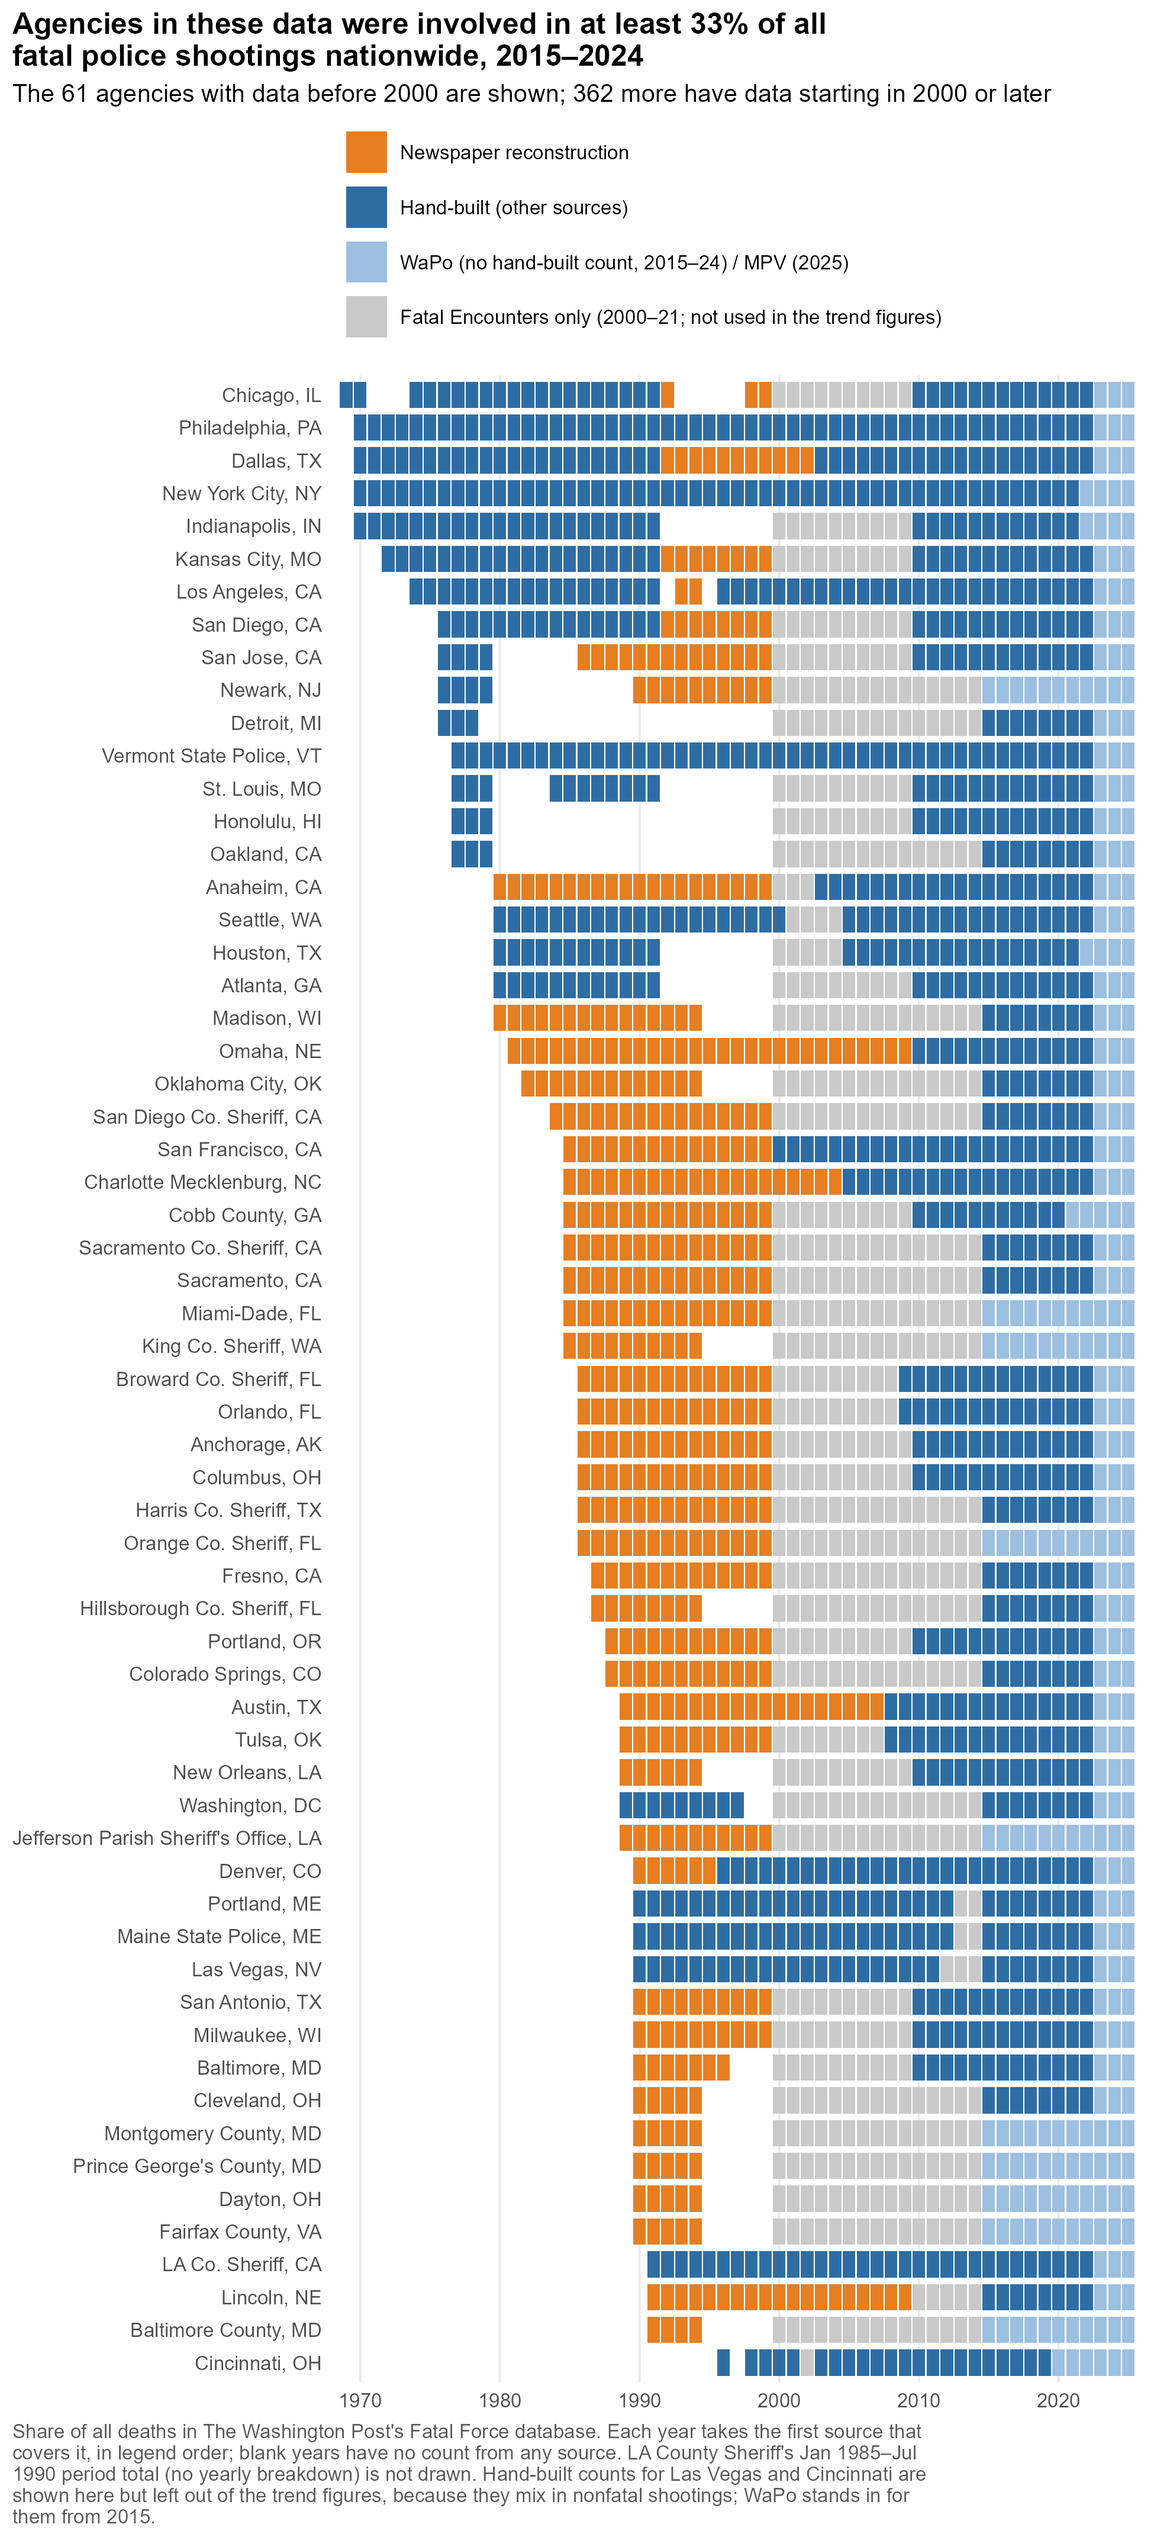
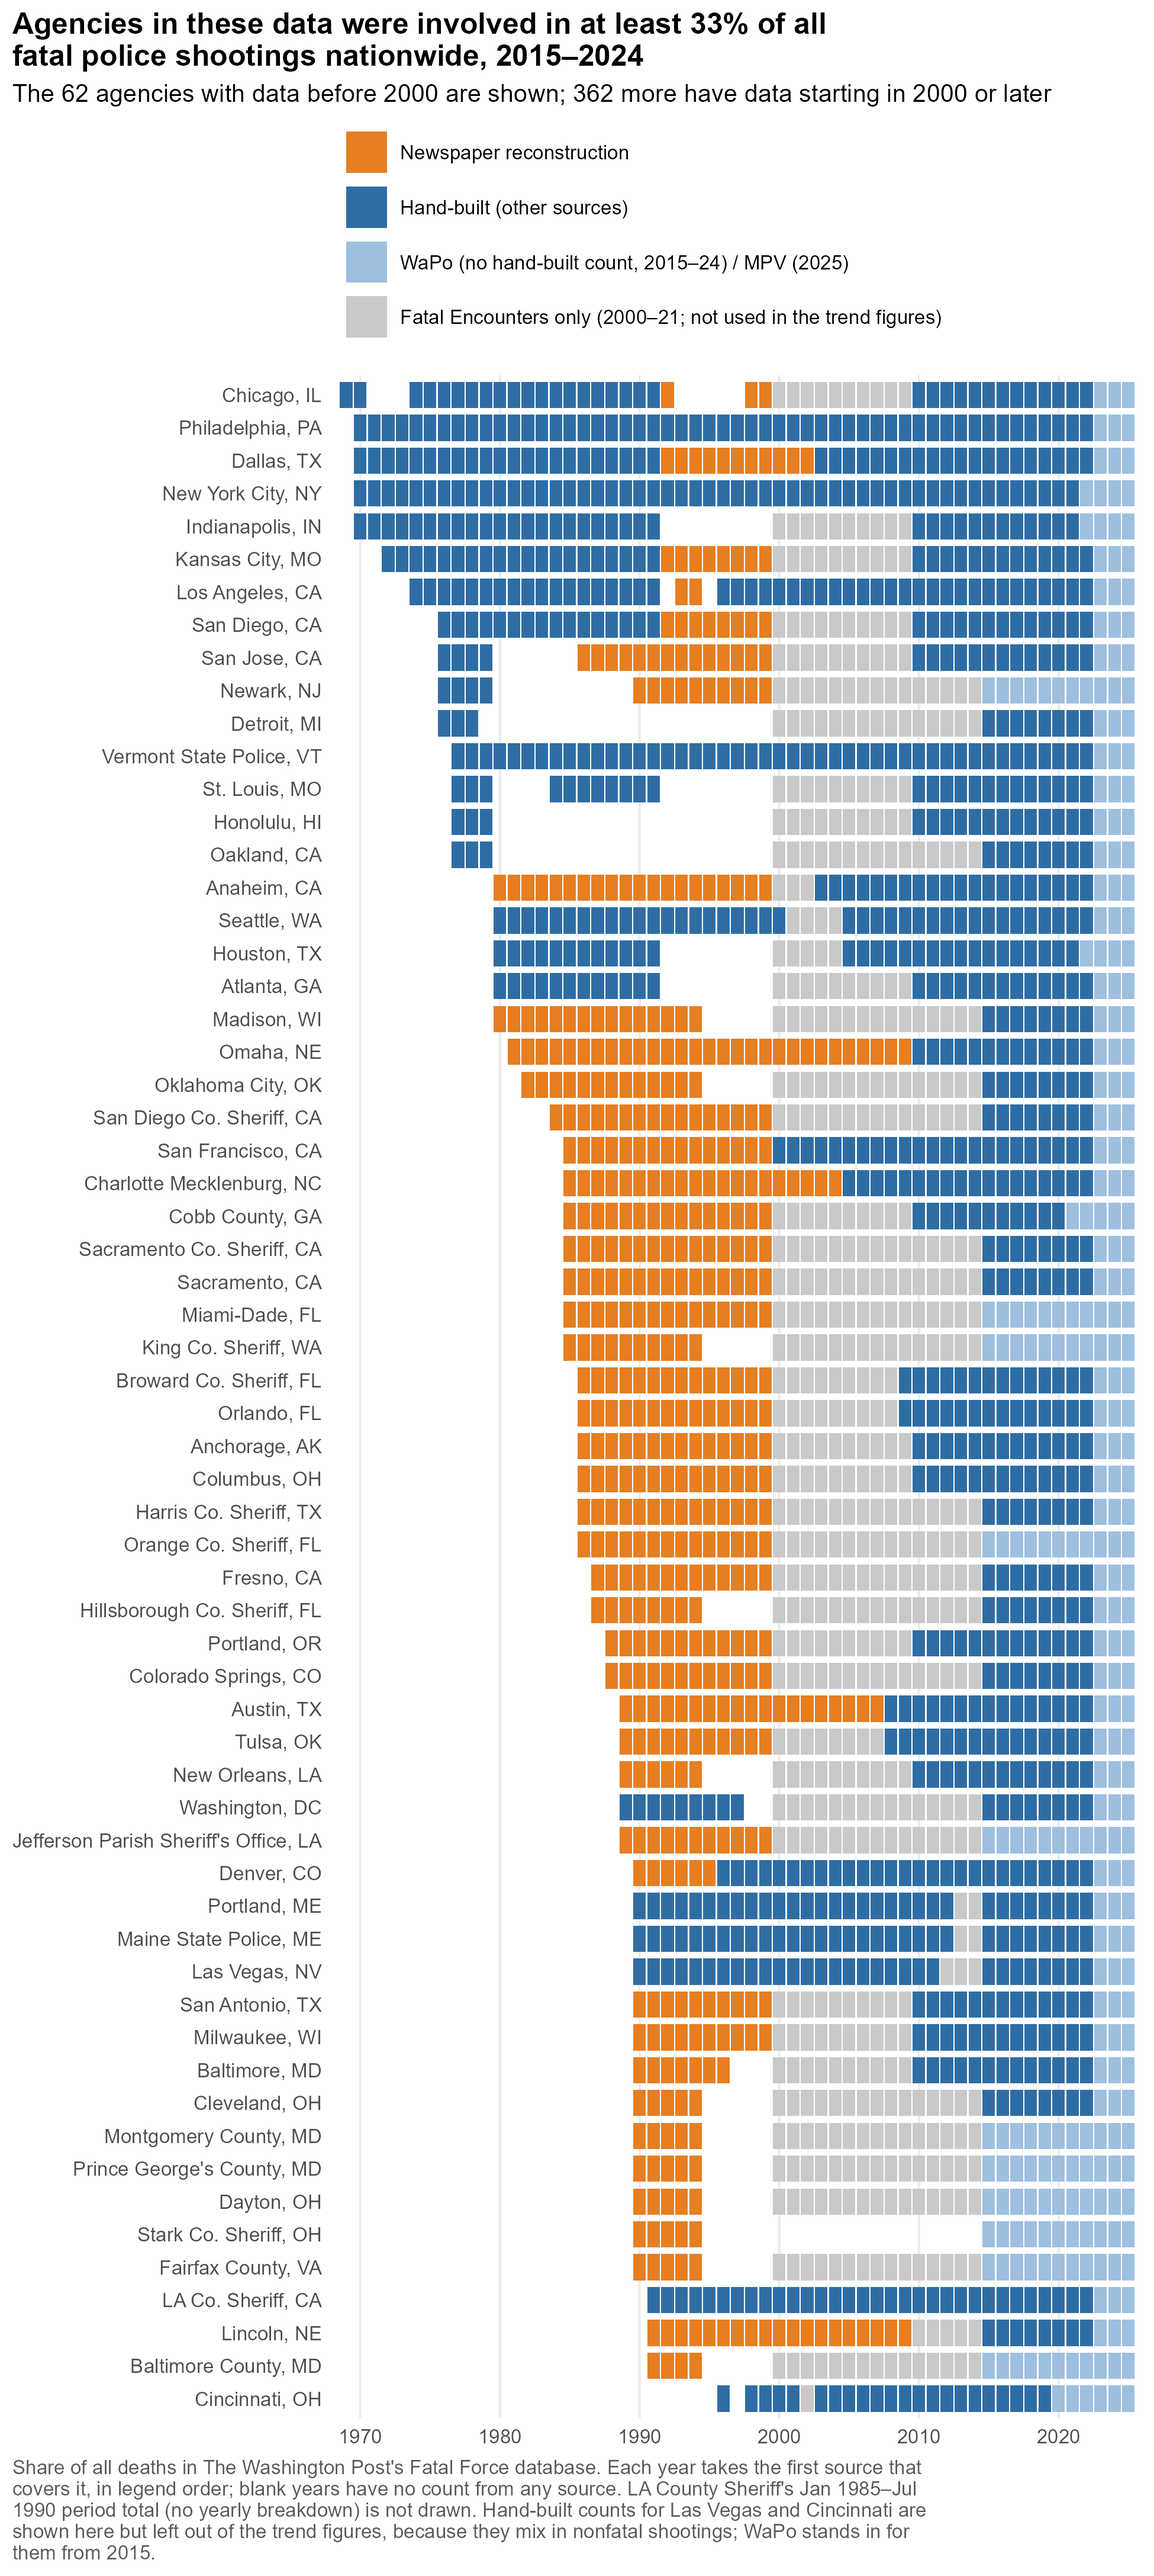
Add Stark County SO (OH) 1990-94 to n_nix; set aside all-zero agencies in then-vs-now (#61)
Sampled agency (Midwest 100-250k). New slug stark_county_oh. The Akron
Beacon Journal (the only paper covering Stark County in NewsBank before
the 2000s) shows no fatal shootings by deputies in 1985-94, while it did
report two deputies wounded in 1991 and Canton police killings.
1990-94 entered as zeros (SHR 0 in every filed year).

Recall cannot be measured: Fatal Encounters, WaPo and MPV list no Stark
County SO killings (their single 2013 entry was a Canton PD shooting).
Completeness rests on the approved fallback (paper plus SHR agreement).

Stark has five-plus years in both eras and no deaths in either. fepois
already drops such agencies from the era ratio; 07 now sets them aside
from the then-vs-now table too (the stopifnot required equal counts) and
reports the number (long_panel_all_zero_set_aside). Headline unchanged:
54 agencies, 0.750 (0.548-1.027).

diff --git a/README.md b/README.md
@@ -28,7 +28,7 @@ Are police killing more people now than in decades past? National data can't ans
 
 **How far back it reaches.** Before 2000, the solid line rests on only 4–56 departments, mostly large cities. It describes big cities, not the country. The [coverage figure](#coverage-figure) below shows exactly which agency-years each source covers.
 
-**What it shows.** The headline compares one fixed set of agencies: the 54 with at least five years of data both before 1995 and since 2015, shown as the dashed line. In those agencies, fatal police shootings since 2015 run 25% below their 1970–1994 level (ratio 0.75, 95% CI 0.55–1.03).
+**What it shows.** The headline compares one fixed set of agencies: the 54 with at least five years of data both before 1995 and since 2015, shown as the dashed line. In those agencies, fatal police shootings since 2015 run 25% below their 1970–1994 level (ratio 0.75, 95% CI 0.55–1.03). One more agency, the Stark County (OH) Sheriff's Office, has enough years in both eras but no deaths in either, so it adds no information to the ratio and is set aside.
 
 ![Then vs. now in 54 long-running agencies](output/figures/then_vs_now.png)
 
@@ -44,7 +44,7 @@ The reconstructions are floors, because a search can miss deaths but can't inven
 
 ![Agencies with data before 2000](output/figures/coverage_tiles.png)
 
-**Reach.** The 61 agencies above carry the long-run record back before 2000. Each year shows the first source that covers it: newspaper reconstruction (orange), other hand-built sources (dark blue), WaPo or MPV where there is no hand-built count (light blue), and Fatal Encounters alone (grey; FE is not used in the trend figures). Blank years are true gaps. Overall, the hand-built agencies were involved in at least 33% of everyone shot and killed by police in WaPo's data, 2015–2024 ("at least" because deaths are matched through each WaPo agency's primary ORI, so some matches are missed).
+**Reach.** The 62 agencies above carry the long-run record back before 2000. Each year shows the first source that covers it: newspaper reconstruction (orange), other hand-built sources (dark blue), WaPo or MPV where there is no hand-built count (light blue), and Fatal Encounters alone (grey; FE is not used in the trend figures). Blank years are true gaps. Overall, the hand-built agencies were involved in at least 33% of everyone shot and killed by police in WaPo's data, 2015–2024 ("at least" because deaths are matched through each WaPo agency's primary ORI, so some matches are missed).
 
 Numbers in this section come from [`trend_summary.csv`](output/tables/trend_summary.csv), [`trend_index.csv`](output/tables/trend_index.csv), [`then_vs_now.csv`](output/tables/then_vs_now.csv), [`era_ratio_sensitivity.csv`](output/tables/era_ratio_sensitivity.csv), and [`coverage_share.csv`](output/tables/coverage_share.csv), all written by [`scripts/07_figures_trends.R`](scripts/07_figures_trends.R).
 
@@ -83,7 +83,7 @@ The four largest local departments show how the series line up, and SHR's false 
 | 1969 | 1 (Chicago) | — | — | — | — |
 | 1970s | 4–15 | — | — | — | 1,760–1,929 (1976+) |
 | 1980s | 14–41 | — | — | — | 1,695–1,960 |
-| 1990s | 40–57 | — | — | — | 1,459–1,818 |
+| 1990s | 40–58 | — | — | — | 1,459–1,818 |
 | 2000s | 114–172 | — | 2,967 | — | 1,524–1,721 |
 | 2010s | 361–369 | 3,647 (2015+) | 2,967 | 4,622 (2013+) | 1,584–1,841 |
 | 2020s | 225–368 (through 2022) | 3,647 (through 2024) | 2,967 (through 2021) | 4,622 (through 2025) | 1,864–2,098 (through 2024) |
@@ -205,6 +205,7 @@ The method, a note on every agency, and the checks against each paper's own coun
 | Hillsborough County SO (FL) | *St. Petersburg Times*; *The Tampa Tribune* | 1987–1994 | 8 | 1 (1988–91 not filed) |
 | Madison PD (WI) | *Wisconsin State Journal*; *The Capital Times* (1980–88 from a 1994 list) | 1980–1994 | 2 | 2 |
 | Dayton PD (OH) | *Dayton Daily News* | 1990–1994 | 4 | 1 |
+| Stark County SO (OH) | *Akron Beacon Journal* | 1990–1994 | 0 | 0 |
 | LA County Sheriff (period total) | *Daily News of Los Angeles* (Oct. 7, 1990 study) | Jan 1985 – Jul 1990 | 75 | 42 (1985–90) |
 
 

diff --git a/data/historical/README.md b/data/historical/README.md
@@ -64,4 +64,5 @@ The SHR column is the FBI's count of people killed by the agency's officers with
 | Hillsborough County SO (FL) | *St. Petersburg Times*; *The Tampa Tribune* (from mid-1990) | 1987–1994 | 8 | 1 (1988–91 not filed) | Rebuilt case by case; neither paper printed yearly tallies. Every 1990–94 case is also in the *St. Petersburg Times*, which alone covers 1987–89. SHR is no benchmark here: it files nothing for 1988–91 and has 1 death in 1993–94 against 4 found. Counts a 1990 bank-robbery chase death where deputies led a five-agency pursuit and fired. Recall check (2000–05): all 11 Fatal Encounters gunshot deaths in each paper |
 | Madison PD (WI) | *Wisconsin State Journal*; *The Capital Times* | 1980–1994 | 2 | 2 | Both papers start in January 1989. A 1994 *State Journal* list of every fatal shooting by Madison-area police since 1980 names the same two Madison deaths and none before 1992, so 1980–88 are entered as zeros from that list. Matches SHR in every year. Leaves out a 1992 man who shot himself after an officer wounded him. Recall check (2000–05): all 3 Fatal Encounters deaths that were not suicides |
 | Dayton PD (OH) | *Dayton Daily News* | 1990–1994 | 4 | 1 | The *Daily News* starts in October 1989. Rebuilt case by case; the paper printed no yearly tallies. SHR is no benchmark here: it files no Dayton police killings in 2000–05, when Fatal Encounters has 10. Counts a 1993 death in which an officer's gun went off during a struggle. Recall check (2000–05): all 10 Fatal Encounters deaths that were not suicides |
+| Stark County SO (OH) | *Akron Beacon Journal* | 1990–1994 | 0 | 0 | The Canton *Repository* is in NewsBank only from the 2000s, so the Akron paper is the only source. No fatal shootings by deputies found; the paper did report two deputies wounded in 1991 and Canton police killings. Recall can't be measured: Fatal Encounters, WaPo and MPV list no Stark County deputy killings (their one 2013 entry was a Canton police shooting), so the zeros rest on agreement with SHR, which files 0 in every year |
 | LA County Sheriff (period total) | *Daily News of Los Angeles* | Jan 1985 – Jul 1990 | 75 | 42 (1985–90) | Not yearly counts: a 1990 *Daily News* study of all 202 on-duty deputy shootings found 75 deaths. It enters only the then-vs-now comparison, with 5.57 years of exposure. See `period_totals.csv` |
